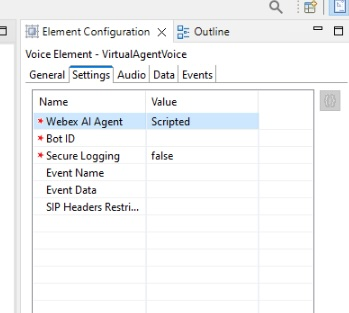
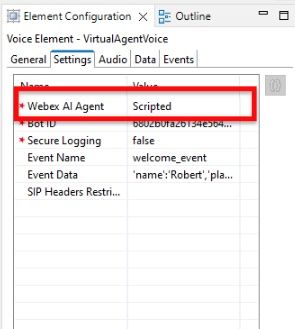
Updates to Lab 3 and new images

diff --git a/docs/lab3_scripted_bot_basic.md b/docs/lab3_scripted_bot_basic.md
@@ -212,17 +212,17 @@ We have now created an AI Agent and have tested it to ensure it's working. We ar
 
     ![Import Dialog Box](./assets/L3T1S3-ImportArchive.jpg)
 
-- In the *Import Projects from Folder or Archive* dialog box, select the *Archive* button at the top of the box, then navigate to where you downloaded the example application and select it. You should **not** import the *CLUS_NativeAI.zip* file in the downloads directory. Once you are back at the import dialog, ensure that you uncheck the folder "NativeAI_Autonomous.zip_expanded" and leave the "NativeAI_Autonomous.zip_expanded\NativeAI_Auto" selected. Refer to the image and once all options are set, select *Finish*.
+- In the *Import Projects from Folder or Archive* dialog box, select the *Archive* button at the top of the box, then navigate to where you downloaded the example application and select it. You should **not** import the *CLUS_NativeAI.zip* file in the downloads directory. Once you are back at the import dialog, ensure that you uncheck the folder "NativeAI_Autonomous.zip_expanded" and leave the "NativeAI_Scripted.zip_expanded\NativeAI_Auto" selected. Refer to the image and once all options are set, select *Finish*.
 
-    ![Import Application Dialog](./assets/L2T3S3-AutoImportArchiveDialog.jpg)
+    ![Import Application Dialog](./assets/L3T3S3-ScriptedImportArchiveDialog.jpg)
 
-**Step 4.** In the *Project Explorer*, locate the *NativeAI_Auto* project. Expand this and double-click on the *app.callflow* to open the example application.
+**Step 4.** In the *Project Explorer*, locate the *NativeAI_Scripted* project. Expand this and double-click on the *app.callflow* to open the example application.
 
- ![Project Explorer](./assets/L2T3S4-AutoAppCallFlow.jpg)
+ ![Project Explorer](./assets/L3T3S4-ScriptedAppCallFlow.jpg)
 
 **Step 5.** Review the application that you have imported. You will see that we have already added the required elements to the canvas.
 
-![Imported Application](./assets/L2T3S5-ImportedAutoApp.jpg)
+![Imported Application](./assets/L3T3S5-ImportedScriptedApp.jpg)
 
 Refer to the table for what each element is used for.
 
@@ -230,20 +230,24 @@ Refer to the table for what each element is used for.
 | --- | ---| --- |
 | CVP Subdialog Start_01 | CVP Subdialog Start | Mandatory element for all Comprehensive Call Flows to receive data from CCE. |
 | CVP Subdialog End_01 | CVP Subdialog End | Mandatory element for all Comprehensive Call Flows to return data to CCE. |
-| HeadsetAgent | VirtualAgentVoice | VAV element which allows CCE to interact with the Native AI agent. |
-| HeadsetAgentDecision | Decision | Decision elements allow the user to take different outcomes based on the output of a previous element. This decision element handles the output from the TrackerBotStart VAV element. |
+| TrackerBotStart | VirtualAgentVoice | VAV element which allows CCE to interact with the Native AI agent. |
+| TrackerBotOrderStatus | VirtualAgentVoice | VAV element which allows CCE to interact with the Native AI agent. |
+| TrackerBotStartDecision | Decision | Decision elements allow the user to take different outcomes based on the output of a previous element. This decision element handles the output from the TrackerBotStart VAV element. |
+| TrackerBotOrderStatusDecision | Decision | Decision elements allow the user to take different outcomes based on the output of a previous element. This decision element handles the output from the TrackerBotOrderStatus VAV element. |
 | ErrorMessage | Audio | Audio elements allow script to play either static audio files or play text to speech files through an ASR/TTS server. |
 | AgentFlag | Flag | Flag elements can be added to scripts to help with tracking calls through the logs and indicating what path a script has taken |
 | ErrorFlag | Flag | Flag elements can be added to scripts to help with tracking calls through the logs and indicating what path a script has taken |
-| SessionEndFlag |  Flag | Flag elements can be added to scripts to help with tracking calls through the logs and indicating what path a script has taken |
+| SetOrderNumber | Set Value | Set Value elements allow you to define and assign values to local variables. They also allow you to use Java and Javascript to set these variables based on other data in the script. The SetOrderNumber element is used to parse information returned from the Bot and set values to be used in the GetOrderDetails element. |
+| SetMessageToReturn | Set Value | Set Value elements allow you to define and assign values to local variables. They also allow you to use Java and Javascript to set these variables based on other data in the script. The SetMessageToReturn element is used to parse the information returned by the RESTful API and set this to a variable to be sent back to the bagentt. |
+| GetOrderDetails | Rest_Client | This element allows us to call the RESTful API with details from the Bot to get information about the order. |
 
 Once you have imported the app, you are ready to start configuring the elements required to interact with the agent.
 
 **Step 6.**  Update the VAV Element with the Agent ID from AI Agent Studio.
 
-a. Select the HeadsetAgent VAV element, then select the *Settings* tab. The *Webex AI Agent* setting allows you to select which type of VAV bot you will be working with. Notice that we have selects the value, *Autonomous* in the dropdown.
+a. Select the HeadsetAgent VAV element, then select the *Settings* tab. The *Webex AI Agent* setting allows you to select which type of VAV bot you will be working with. Notice that we have selects the value, *Scripted* in the dropdown.
 
-![Webex AI Agent Dropdown](./assets/L2T3S6a-AutoDropDown.jpg)
+![Scripted Bot Selection](./assets/L3T2S1.1-ScriptedBotSelection.jpg)
 
 b. Immediately under the *Webex AI Agent* setting, you will see the *Bot ID* setting. The value you see is the ID of the agent that was used to create this lab and may not be in the tenant you are using.
 
@@ -255,27 +259,41 @@ To find the value you need to use, open your Webex AI Studio, select the bot you
 
 Paste the agent ID you copied into the value for *Bot ID.* While you have this in your clipboard, locate the TrackerBotOrderStatus element and make the same two updates.  
 
-**Step 7.** Deploy the Application
+**Step 7.** The Event_Data setting in the VAV element allows us to pass data to the bot. In the first VAV element, we will pass in two static values. In the TrackerBotStart Settings, locate the Event Data and click on the ellipsis (three dots) in the Value.  
+
+![EventEllipsis](./assets/L3T2S6.1-EventDataEllipsis.jpg)
+
+You will see a settings box in the middle of your screen. This allows you to pass JSON formatted key/value pairs. You can pass individual values or even JSON into this. We will pass two values, name and place. For the name field, pass in your first name. For the location field, pass in the state where you are from. If your state or location has two names like North Carolina, pass this with single quotes around it. Refer to the example shown.  
+
+![EventPopulated](./assets/L3T2S6.2-EventDataPopulated.jpg)
+
+Click OK after you have entered the values. You will see these reflected in the Settings tab.  
+
+![EventSettingsPopulated](./assets/L3T2S6.3-EventDataSettingsPopulated.jpg)
+
+**Step 8.** Deploy the Application
 
 a. If you have not saved your application, do so now by selecting the save icon in the toolbar.
 
-b. Validate the application. Right-click the *NativeAI_Auto* application and select *Validate*.
+b. Validate the application. Right-click the *NativeAI_Scripted* application and select *Validate*.
 
 ![ValidateApplication](./assets/L3T4S2.1-ValidateApplication.jpg)
 
 Check the errors grid at the bottom of the screen to ensure nothing is shown. If you do see any errors, review the error and resolve the issue by referring back to the portion of the lab where that item was configured.
 
-c. Deploy the application to the VXML Server. Right-click on the *NativeAI_Auto* application and select *Deploy*.
+c. Deploy the application to the VXML Server. Right-click on the *NativeAI_Scripted* application and select *Deploy*.
 
 ![Deploy Application](./assets/L3T4S3.1-DeployApplication.jpg)
 
-d In the window that pops-up, leave the values at their defaults. The *NativeAI_Auto* application checked and the folder left as "C:\Cisco\CVP\VXMLServer" and click *Finish*.
+d In the window that pops-up, leave the values at their defaults. The *NativeAI_Scripted* application checked and the folder left as "C:\Cisco\CVP\VXMLServer" and click *Finish*.
 
-e. On the CVP VXML server, deploy the application. Navigate to "C:\Cisco\CVP\VXMLServer\applications\NativeAI_Auto\admin". Double-click *deployApp.bat*.
+e. On the CVP VXML server, deploy the application. Navigate to "C:\Cisco\CVP\VXMLServer\applications\NativeAI_Scripted\admin". Double-click *deployApp.bat*.
 
 f. In the command window that pops up, type "yes" to confirm that you want to deploy the application. Hit enter one more time after the application has been deployed to close the command prompt window.
 
-**Step 8.** Update CCE Script to use the new application
+**Step 9.** Update CCE Script to use the new application
+
+**Note: If you still have the Script Editor open from Lab 2, you may skip to step d.**
 
 a. In your mRemote window, locate the AW-HDS-DDS server and login.
 
@@ -299,9 +317,9 @@ d. Locate the *Set Variable* node which sets the VXML Application name (the four
 
 ![VXML Application Set Variable](./assets/L3T5S4.1-SetVariableNode.jpg)
 
-Open it and update the name of the script (currently HelloWorld) to "NativeAI_Auto".
+Open it and update the name of the script (currently NativeAI_Auto) to "NativeAI_Scripted".
 
-![VXML Application Name Set](./assets/L2T3S8d-VXMLAppName.jpg)
+![VXML Application Name Set](./assets/L3T3S8d-VXMLAppName.jpg)
 
 e. Select the *Save* button in the toolbar to make this change live, then select the *Monitor Script* button.
 
@@ -336,8 +354,16 @@ Use your mobile phone to call into the number. You should hear the bot greet you
 **Step 3.**
 Recommended ways to test the agent.
 
-1. After the agent answers and greets you, ask which headsets support bluetooth.
-2. Ask which headsets have boom mics.
+1. After the bot greets you by name, say "Track an order" or "I'd like to track an order".
+2. The bot will ask you for a 6-digit order number.
+3. After providing the order number, the bot will next ask you for 4-digit pin.
+4. You should now hear the bot provide you an update on the order followed by "would you like to track another order?".
+5. Say "Yes".
+6. Next, try a different utterance by saying "Track order 123456 with pin 7890".
+7. You should now hear the bot provide you an update on the order followed by "would you like to track another order?".
+8. You can now say "No" following which the bot should speak out the configured GoodBye message.
+9. On Finesse you should now see the call come in -> accept the call on Finesse and keep the call going.
+10. On Finesse, under the ***Agent Answers*** tab you should now see the transcript of the conversation between the caller and the AI Agent.
 
 
 **Step 4.**
